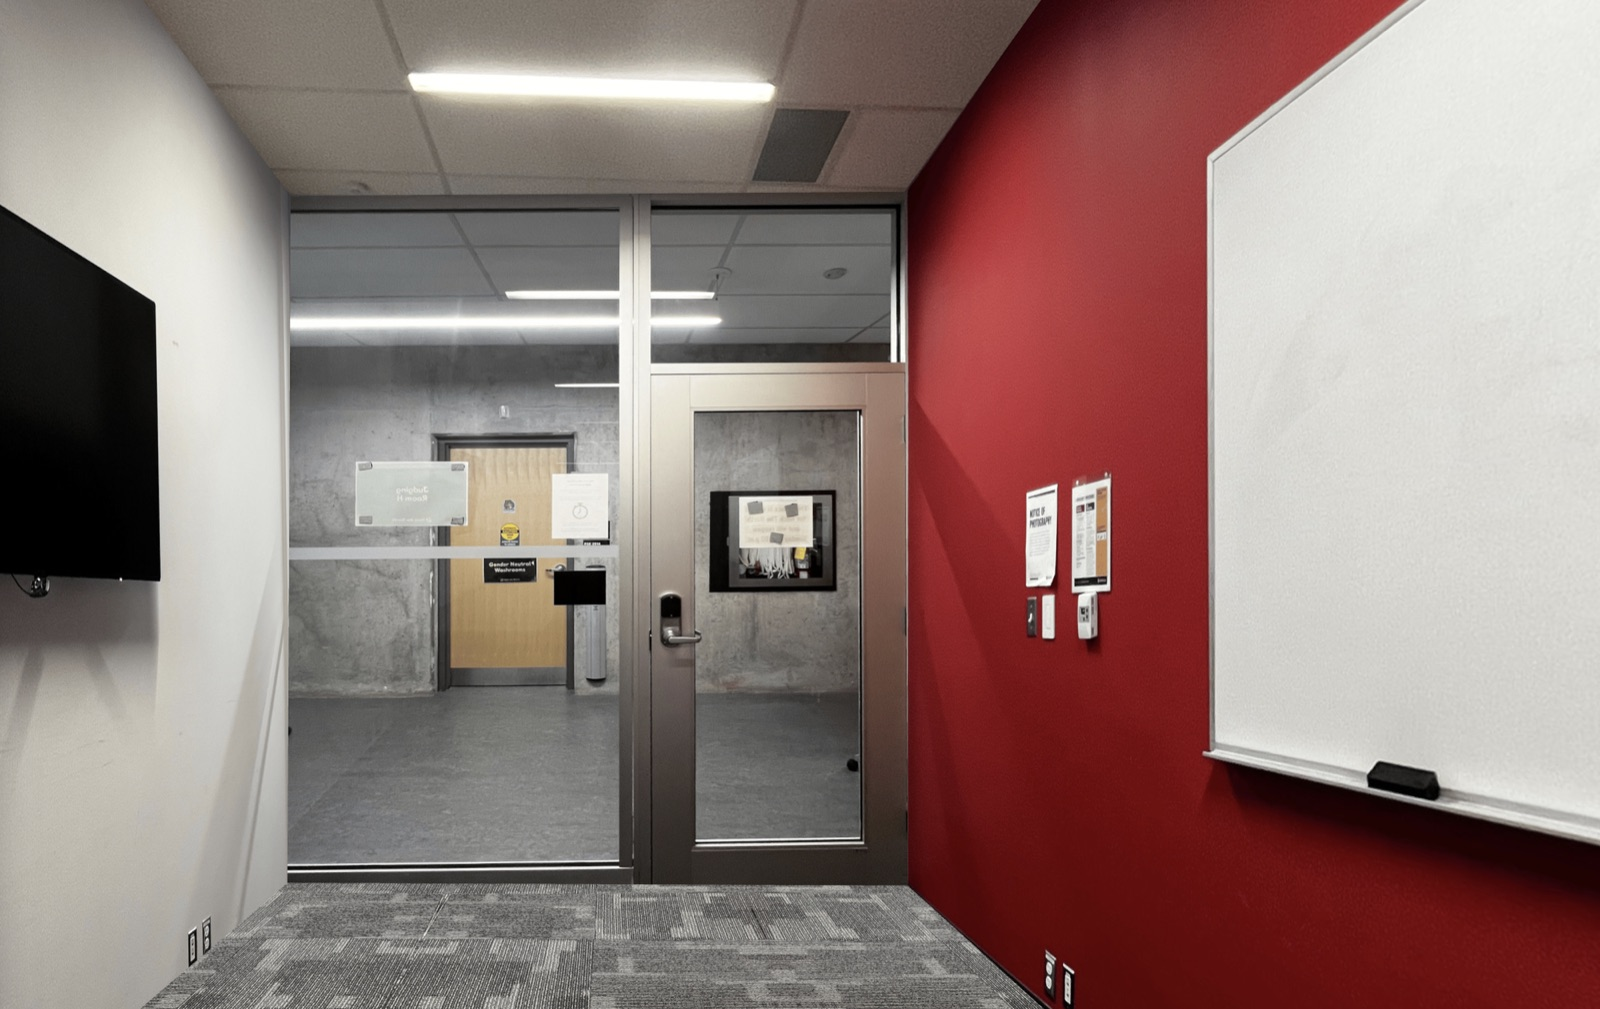
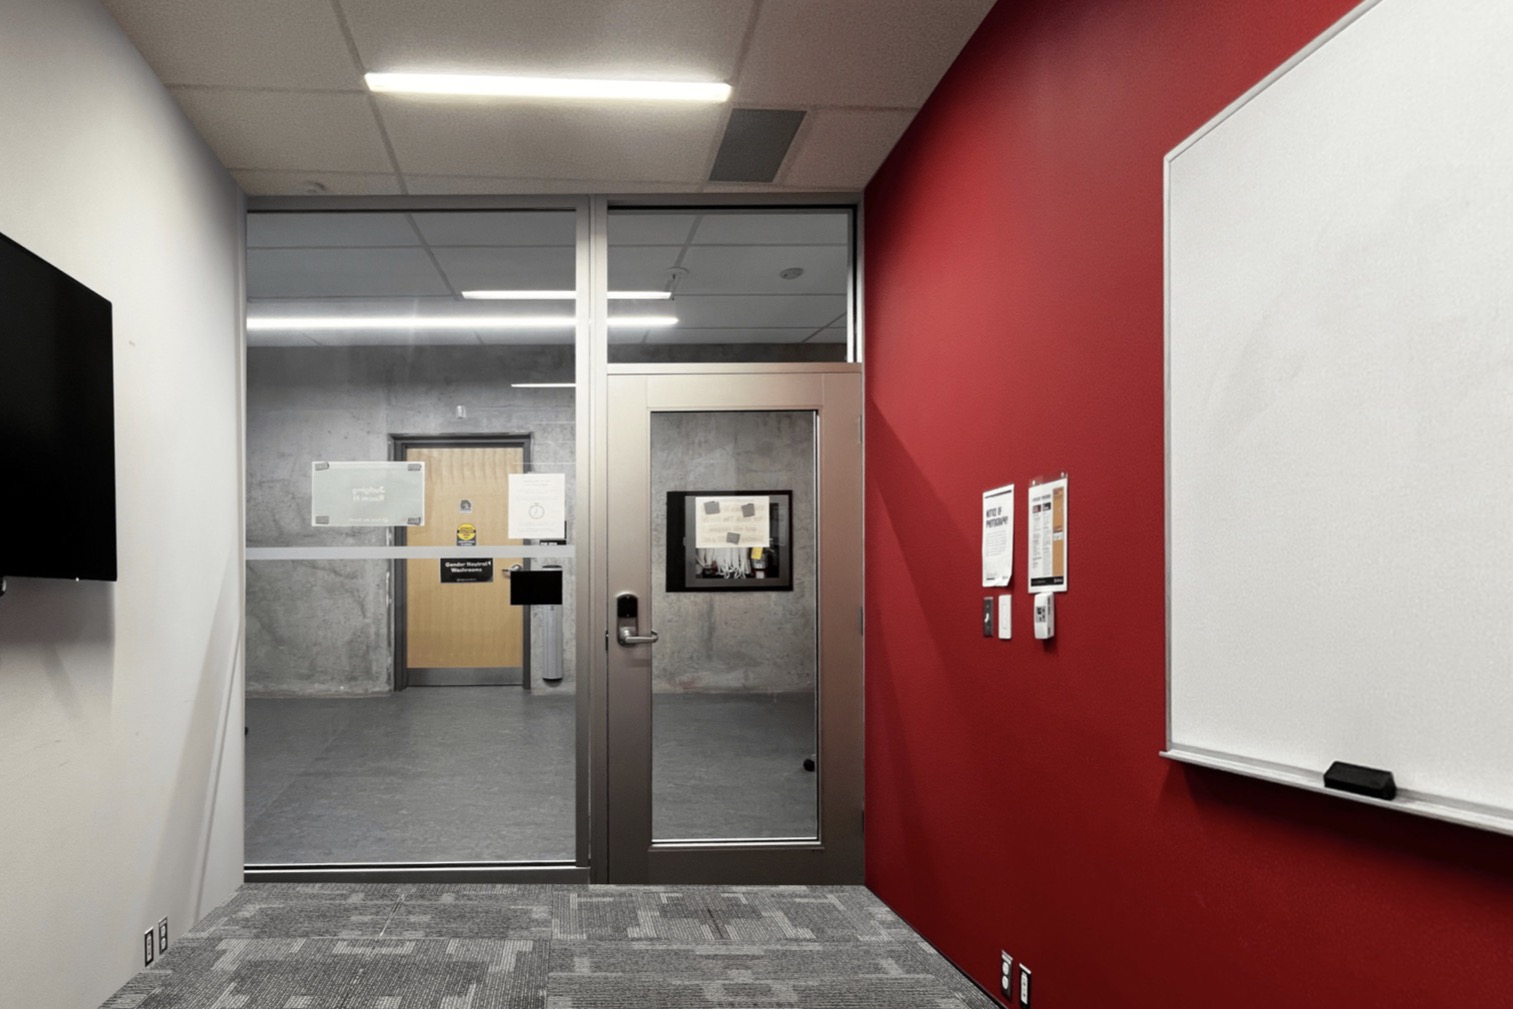
mobile(rooms): pictures no longer stretch, and the demo room gets its picture
The card box was 4:3 and the pictures about 3:2; on RN 0.86 the resizeMode prop did not take
effect on device, so each photo was drawn about 12% too tall. Every bundled room picture is now
cropped to exactly 3:2 and the box is 3:2, so box and pixels agree whatever the resize mode.

The demo room was fetched through the stub layer, which answers with the fixture's own roomId,
so its card was keyed by another id and found no bundled picture. It is a real row in D1 and is
now fetched live, like the other rooms; its version count too.

diff --git a/apps/mobile/app/(tabs)/index.tsx b/apps/mobile/app/(tabs)/index.tsx
@@ -49,7 +49,10 @@ async function fetchRoomsPayload(): Promise<RoomsPayload> {
   const localIds = localRoomIds();
   const targets = [
     ...[...localIds, ...SEED_ROOM_IDS.filter((id) => !localIds.includes(id))].map((id) => ({ id, stub: false })),
-    { id: DEMO_ROOM_ID, stub: true },
+    // Live, like every other room: the demo room is a real row in D1. Through the stub layer the
+    // Worker answers with its fixture's OWN roomId, so the card was keyed by a different id and
+    // found no bundled picture (and no versions).
+    { id: DEMO_ROOM_ID, stub: false },
   ];
   const settled = await Promise.all(
     targets.map(({ id, stub }) =>
@@ -63,7 +66,7 @@ async function fetchRoomsPayload(): Promise<RoomsPayload> {
   const failed = settled.flatMap((r) => ("error" in r ? [r] : []));
   // Every room failing is an error screen with the reason, not an empty list that reads "no rooms".
   if (rooms.length === 0 && failed.length > 0) throw new Error(failed[0].error);
-  const counts = await Promise.all(rooms.map((r) => versionCountFor(r.roomId, r.roomId === DEMO_ROOM_ID)));
+  const counts = await Promise.all(rooms.map((r) => versionCountFor(r.roomId, false)));
   const versionCount = Object.fromEntries(rooms.map((r, i) => [r.roomId, counts[i]]));
   return { rooms, versionCount, failed };
 }
@@ -244,7 +247,12 @@ const styles = StyleSheet.create({
   useButtonText: { color: colors.accent, fontSize: 15, fontWeight: "600" },
   useButtonTextSelected: { color: "white" },
   header: { backgroundColor: "rgba(255,255,255,0.35)" },
-  photo: { width: "100%", aspectRatio: 4 / 3 },
+  // 3:2 is the exact ratio every bundled room picture is cropped to (assets/ROOM_PHOTOS.md), so
+  // the box and the pixels agree and nothing can stretch. On RN 0.86 the `resizeMode` PROP did not
+  // take effect on device (a 3:2 photo filled a 4:3 box, 12% too tall); it is set in style as well.
+  // ceiling: a photo taken on this phone (roomPhotoUri) is whatever the camera gave; it relies on
+  // resizeMode "cover" to crop. If that still stretches, crop it to 3:2 when it is saved.
+  photo: { width: "100%", aspectRatio: 3 / 2, resizeMode: "cover" },
   planWrap: { alignItems: "center", justifyContent: "center", paddingVertical: spacing.lg },
   body: { padding: spacing.md, gap: spacing.md },
   titleRow: { flexDirection: "row", alignItems: "center" },
